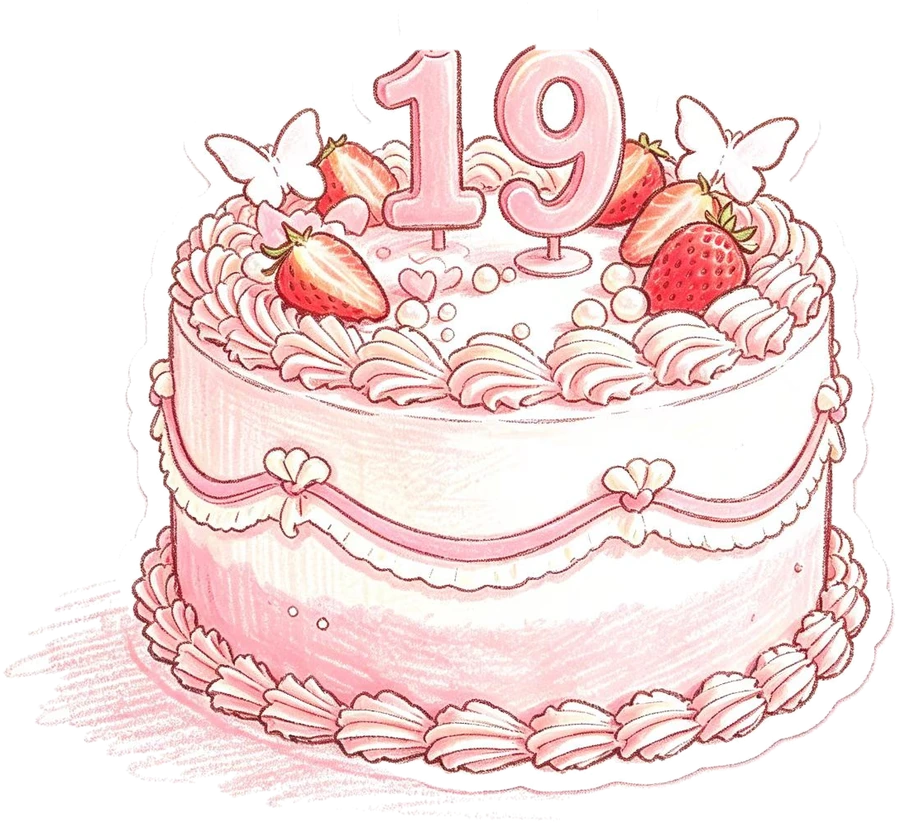
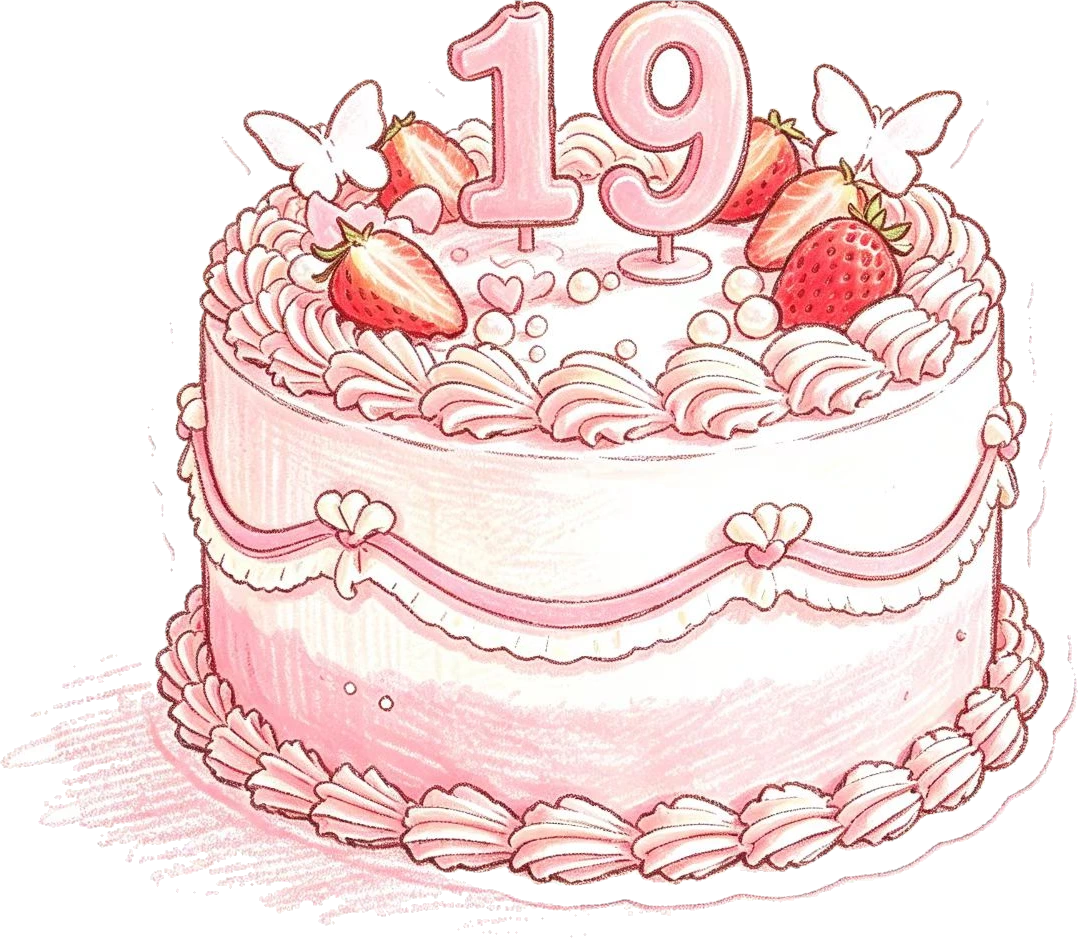
cake: defringe edges, transparent flames, drop watermark

diff --git a/index.html b/index.html
@@ -249,7 +249,10 @@
 
   /* 蛋糕插画 */
   #s8{justify-content:center;gap:2.6vh}
-  .cakeWrap{position:relative;width:78vw;max-width:520px;margin:0 auto}
+  .cakeWrap{position:relative;width:78vw;max-width:520px;margin:0 auto;overflow:visible}
+  .cakeWrap::before{content:"";position:absolute;left:50%;top:52%;width:132%;height:96%;
+    transform:translate(-50%,-50%);pointer-events:none;z-index:-1;
+    background:radial-gradient(ellipse at 50% 50%,rgba(255,111,165,.16),rgba(255,111,165,.05) 46%,transparent 70%)}
   .cakeWrap .cake{display:block;width:100%;height:auto;
     filter:drop-shadow(0 2.4vh 3.6vh rgba(0,0,0,.62))}
   .cakeWrap .fl{position:absolute;height:auto;opacity:0;pointer-events:none;
@@ -331,8 +334,8 @@
     <div class="chars"><b>生</b><b>日</b><b>快</b><b>乐</b></div>
     <div class="cakeWrap" id="cakeWrap">
       <img class="cake" src="assets/web/cake.webp" alt="">
-      <img class="fl f1" id="fl1" src="assets/web/flame1.webp" alt="" style="left:46.05%;top:-2.31%;width:5.15%">
-      <img class="fl f2" id="fl2" src="assets/web/flame2.webp" alt="" style="left:59.47%;top:-3.42%;width:6.07%">
+      <img class="fl f1" id="fl1" src="assets/web/flame1.webp" alt="" style="left:45.18%;top:-10.66%;width:6.12%">
+      <img class="fl f2" id="fl2" src="assets/web/flame2.webp" alt="" style="left:59.65%;top:-11.09%;width:6.12%">
     </div>
     <div id="wish"><i></i></div>
   </section>
